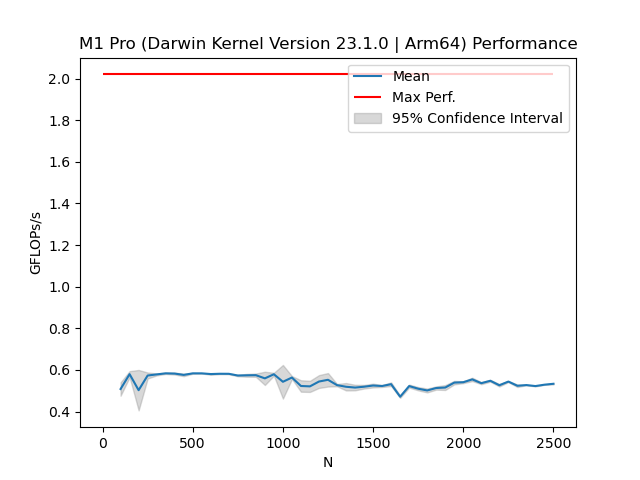
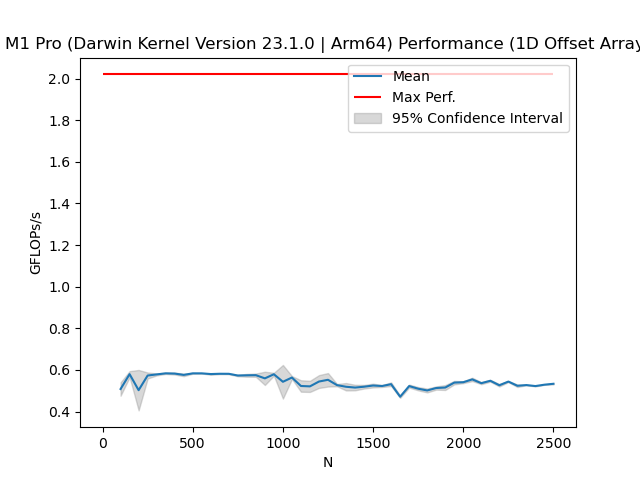
feat: added answers for question 2 part 6 and updated performance graph titles for the matrix allocation

Changed region(s): [[0.0, 0.0625, 1.0, 0.125]]

diff --git a/graphs.py b/graphs.py
@@ -37,7 +37,7 @@ plt.fill_between(x, ci_lows, ci_highs, color='gray', alpha=0.3, label='95% Confi
 
 plt.xlabel('N')
 plt.ylabel('GFLOPs/s')
-plt.title('M1 Pro (Darwin Kernel Version 23.1.0 | Arm64) Performance')
+plt.title('M1 Pro (Darwin Kernel Version 23.1.0 | Arm64) Performance (1D Offset Array)')
 plt.legend()
 
 plt.savefig(f'{plot_name}.png')

diff --git a/Project1WriteUpFinalSubmission.md b/Project1WriteUpFinalSubmission.md
@@ -39,12 +39,13 @@ In this first part of the project, you will test the performance of the basic ma
 4. For the system you are running on, determine the clock speed of the processor and the cache size/layout. Use this information to estimate the theoretical peak performance of the system, assuming that the processor is capable of one flop per clock cycle (generally NOT true on modern architectures). How does the performance you measured in (3) compare to the theoretical peak performance of your system?
     Please see graph above.
 5. Now repeat the performance measurement for a range of matrix size `N` from 1 to 10,000,000. Make a plot of the resulting measured Gflop/s vs. `N`. On this plot place a horizontal line representing the theoretical peak performance based upon your system's clock speed.
-
-    ![N = 2500 Performance Measurements M1 Pro](performance_berk_laptop_new.png)
+    ![N = 2500 Performance Measurements M1 Pro (1D Offset Matrix)](performance_berk_laptop_new.png)
+    ![N = 2500 Performance Measurements M1 Pro (2D Matrix)](performance_berk_laptop.png)
     ![N = 4000 Performance Measurements for HPCC dev18](performance_hpcc_intel18.png)
     #Need horizontal line for hpcc
 
     Notice that the performance of the Mac M1 Pro dis radically than the performance of the HPCC. This is due to the unique architechture of the M1 compared to the HPCC and non-M1 computers. Since Apple designed a chip that integrates CPU, GPU, Neural Engine, I/O onto one chip, it is able to have sustained performance wheras the HPCC has steeper decline in performance. Another possible explaination could be the implementation of SIMD (single insruction multile data) because it's built into the the M1 chip. Also, the M1 has fused multiply-add instructions (FMA) which saves time and gives better run times. Source for M1 information (https://eclecticlight.co/2021/08/06/accelerating-the-m1-mac-an-introduction-to-simd/, https://www.apple.com/macbook-air-m1/).
+     TODO: @Berk add the explanation on the update for matrix allocation and its effect on m1
 
 6. How does the measured performance for multiple _N_'s compare to peak? Are there any "features" in your plot? Explain them in the context of the hardware architecture of your system. Include in your write-up a description of your system's architecture (processor, cache, etc.).
 
@@ -94,6 +95,7 @@ Additionally, the peak performance for the HPCC is different by a factor of four
     | Y[i] = A[i] + C*B[i] **1/12 flops/byte** (2/3 flops = 2 loads, 1 store, 2 operations) | This kernel is similar to the first kernel in the warmup because the kernel is computationaly taxing with multiple loads of vectors A and B as well as a store of vector Y. This kernel will have many cache misses due to having to load vectors A and B, but not as much as the first warmup kernel. If we are to assume that most of these loads will be done from DRAM due to the amount of cache misses, then we can also assume that many operations will be loading from DRAM. This allows us to draw the same conclusion that this kernel will run faster on Berk's laptop than the HPCC due to the results that we've seen in the roofline model and mentioned in the first kernel of the warmup above. As for optimization strategies, we'd once again recommend blocking parts of vectors A and B to limit cache misses. This would also entail explicit SIMDization and cache bypass use the instruction movntpd to deal with quickly filled cache memory and small memory efficiency. |
 
 6. Compare your results for the roofline model to what you obtained for the matrix-matrix multiplication operation from Part 1. How are the rooflines of memory bandwidth related to the features in the algorithmic performance as a function of matrix size?
+    While running the matrix multiplication with M1, we noticed a sudden drop in performance around N = 2000. However, this problem was resolved when we switched our memory allocation for the matrices from 2D arrays to offset based 1D arrays. We predict that during the 2D array allocation, since the child arrays inside the matrices can be placed at the different parts of the memory, some parts of the array may be stored in DRAM which causes the drop. During the 1D array allocation run, we did not observe the same problem this can be cause because memory allocation of this array is done linearly, this way all parts of the matrices are in the same memory partition.
     #TODO Finish this problem
     #Talk over slack when this is done
 
